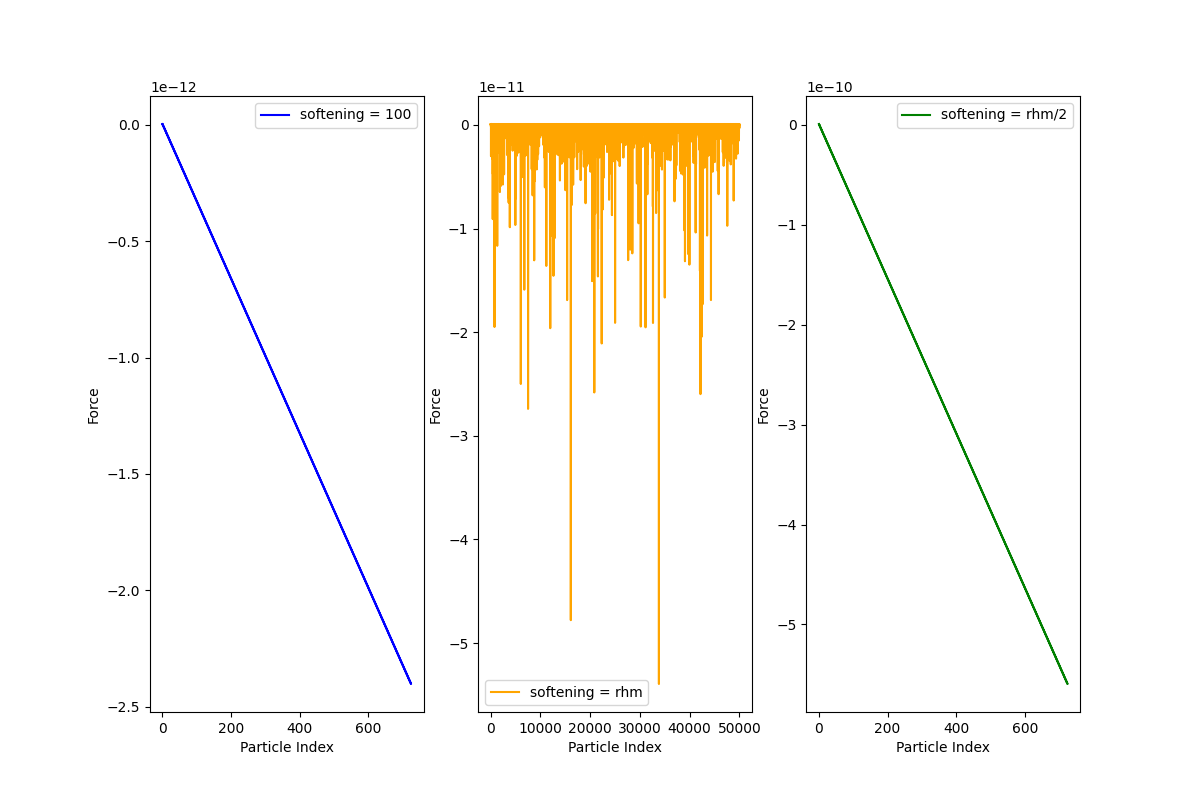
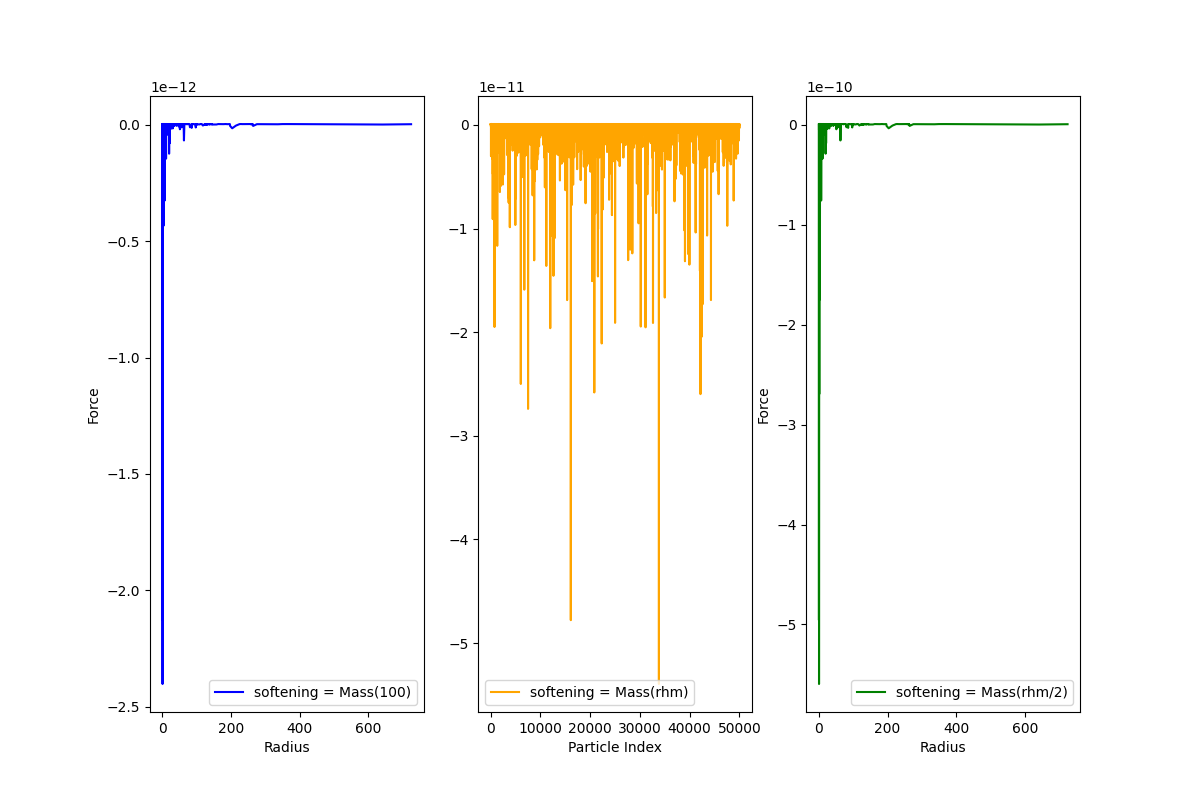
Graphs fixed.

diff --git a/code/task1.py b/code/task1.py
@@ -96,10 +96,18 @@ def compute_nbody_forces(G, epsilon):
 
 def analytical_force(G):
     force_analytic = []
-    for i in np.arange(0.01, radius_max/350,1):
+    for i in np.arange(0.01, radius_max,1):
         force_analytic.append(((-G) * Mass(i)[0]) / pow(i, 3))
 
     return force_analytic
+
+def compute_relaxation():
+    G = 1
+    N = len(Particle_list)
+    vc = math.sqrt((G * total_mass()/2) / half_mass()) #  M(Rhm) = total_mass() / 2
+    t_cross = half_mass() / vc
+    t_relax = (N / (8 * np.log(N))) * t_cross
+
 
 
 def draw_figs(number):  # Plots
@@ -124,12 +132,12 @@ def draw_figs(number):  # Plots
 
     if number == 2:
         fig, (ax1,ax2,ax3) = plt.subplots(1,3, figsize = (12,8))
-        ax1.plot(particle_radius,force_100, label = 'softening = 100', color = 'blue')
-        ax2.plot(force_rhm, label='softening = rhm', color='orange')
-        ax3.plot(particle_radius,force_half, label = 'softening = rhm/2', color = 'green')
-
+        ax1.plot(sorted(particle_radius),force_100, label = 'softening = Mass(100)', color = 'blue')
+        ax2.plot(force_rhm, label='softening = Mass(rhm)', color='orange')
+        ax3.plot(sorted(particle_radius),force_half, label = 'softening = Mass(rhm/2)', color = 'green')
+        ax2.set_xlabel('Particle Index')
         for i in ax1,ax3:
-            i.set_xlabel('Particle Index')
+            i.set_xlabel('Radius')
             i.set_ylabel('Force')
         ax1.legend()
         ax2.legend()
@@ -139,6 +147,10 @@ def draw_figs(number):  # Plots
 
     if number == 3:
         plt.plot(analytical_force(1))
+        plt.xlabel('Radius')
+        plt.ylabel('Force')
+        plt.title('Analytical Force')
+        plt.savefig('AnalyticalForce.png')
         plt.show()
 
 
@@ -147,7 +159,7 @@ def draw_figs(number):  # Plots
 
 
 # compute_nbody_forces(1, softening)
-draw_figs(3)
+# draw_figs(2)
 
 
 
